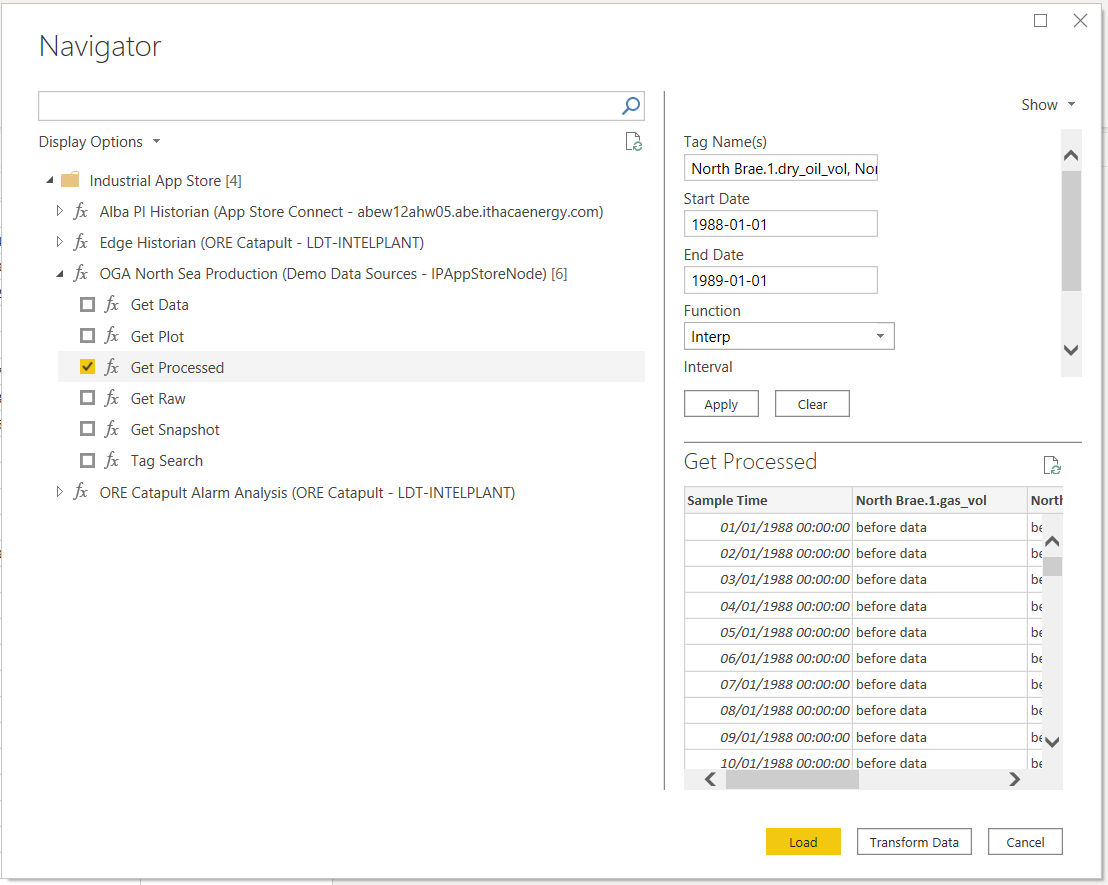
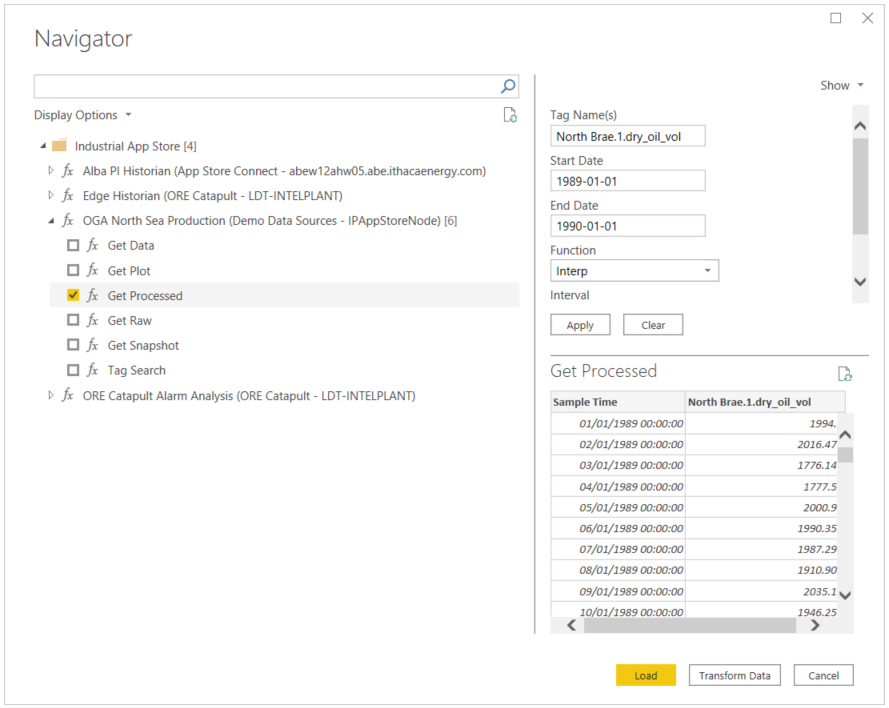
Challenge 3 resources updated

Changed region(s): [[0.3037, 0.0, 1.0, 1.0], [0.0, 0.0, 0.5467, 0.5904], [0.0, 0.9633, 0.0304, 0.9944]]

diff --git a/resources/oga-dataset-explained.md b/resources/oga-dataset-explained.md
@@ -23,16 +23,43 @@ The measurements available on each well are:
 | flowing_thp_prod | Flowing top hole pressure | barg |
 | shut_in_thp | Shut in top hole pressure | barg |
 
-Thus, to obtain daily readings of oil, gas and water produced by Well 1 for 1988, we’d enter the following parameters into the Industrial App Store Connect for Power BI.
+
+## How to get data into Power BI
+
+We can interrogate the historian as follows...
+
+### Get the connector
+
+ The connector is certified and distributed by Microsoft with Power BI updates. Click *Get Data* and look for *Industrial App Store* data connector.
+
+![Start Industrial App Store Connector](https://intelligentplant.com/datasheets/powerplatform/resources/ias-pp-start-connector.gif)
+
+### Log in
+
+Sign in using Microsoft and enter you Hackathon account credentials. 
+
+![Log in Industrial App Store Connector](https://intelligentplant.com/datasheets/powerplatform/resources/ias-pp-start-connector-log-in.gif)
+
+
+### Select Datasource
+
+From the Navigator, select *OGA North Sea Production*
+
+### Enter Query Parameters
+
+The query parameters will depend on what data you wish to explore. 
+
+For example, if we want to obtain daily readings of oil, gas and water produced by Well 1 for 1989, we’d enter the following parameters into the Industrial App Store Connect for Power BI.
 
 ![](images/NorthBraeTags02.png)
 
 | Parameter | Value | Notes |
 |-----------|-------|-------|
 |Tag Names |  North Brae.1.dry_oil_vol, North Brae.1.gas_vol, North Brae.1.water_vol | Comma separated list of tags |
-| Start Date | 1988-01-01| |
-|End Date | 1989-01-01 | |
+| Start Date | 1989-01-01| |
+|End Date | 1990-01-01 | |
 | Function | Interp | Interpolated data, this means that if no underlying data has been recorded, an interpolated value is returned. |
 | Interval | 1d | 1 day |
+
 
 ## Good luck :v:
